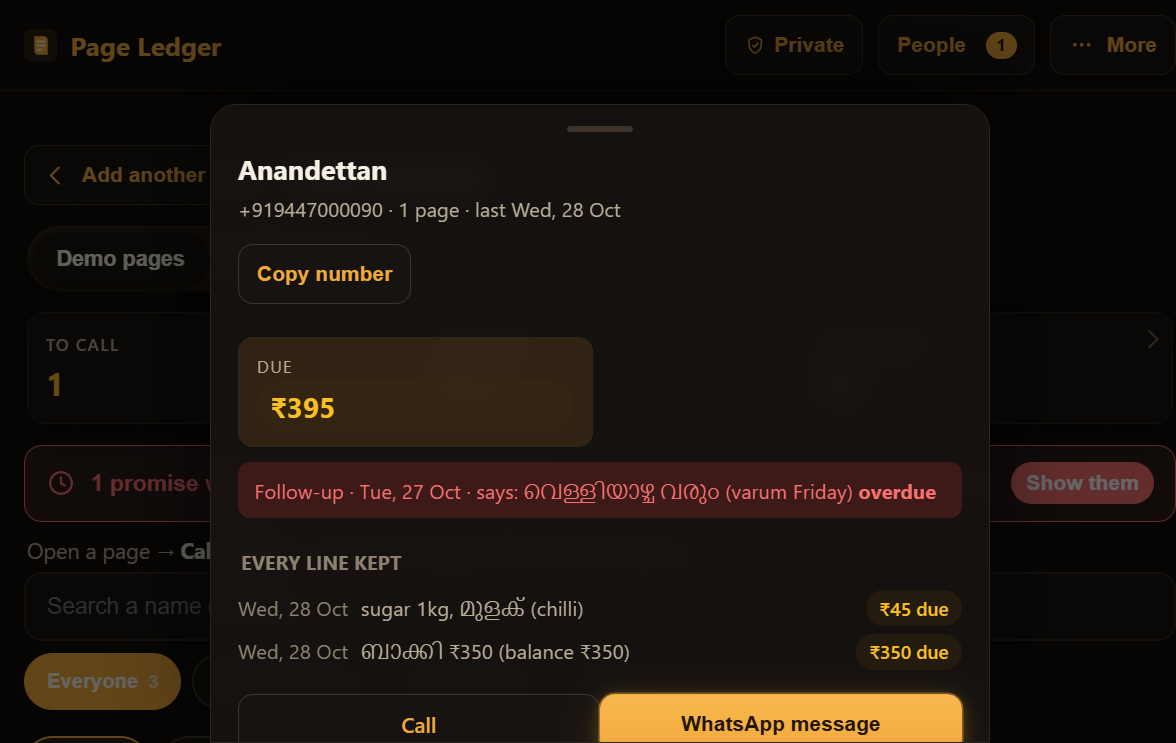
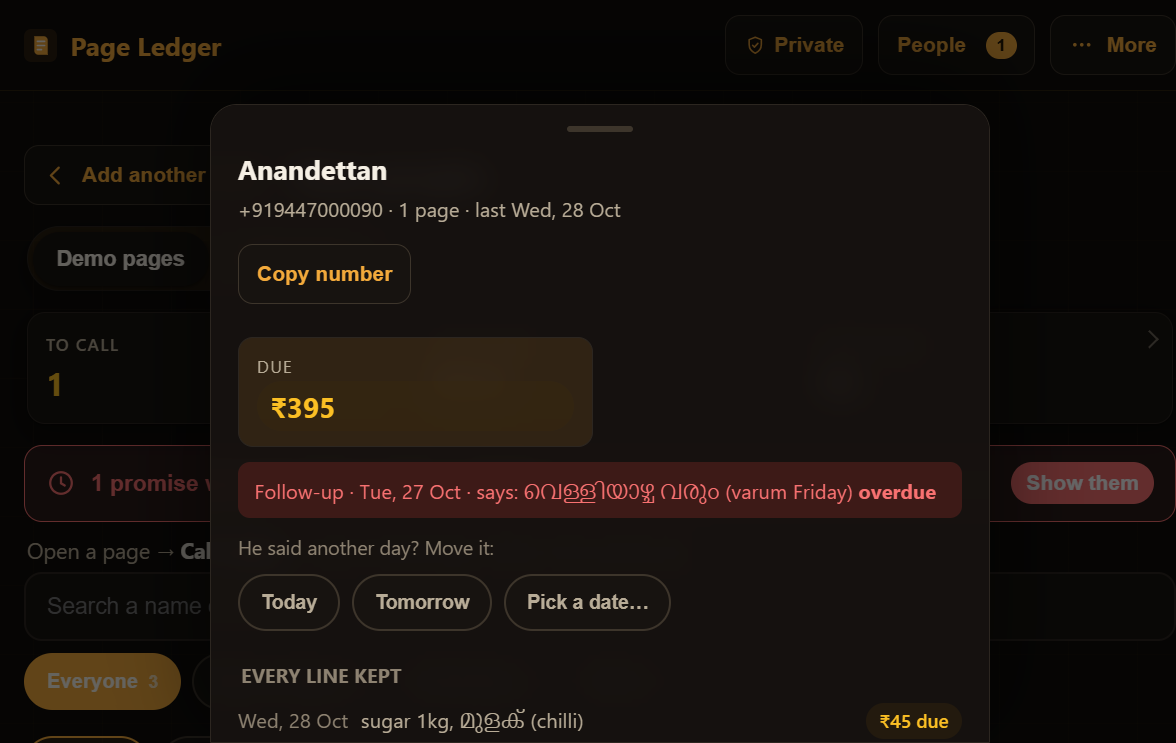
Follow-up move (Today/Tomorrow/pick a date) + craft polish: More menu data group, appbar scroll depth, dark scrollbars, empty-state glyph, card hover; demo script beats updated

diff --git a/js/app.js b/js/app.js
@@ -1576,6 +1576,22 @@ function openPersonSheet(key, triggerEl = null) {
     $("#person-follow").innerHTML = "";
   }
 
+  // the move row appears only for a real, row-backed follow-up
+  const moveRow = $("#person-move");
+  if (moveRow) {
+    if (f && f.rowId) {
+      moveRow.hidden = false;
+      moveRow.dataset.pageId = f.pageId;
+      moveRow.dataset.rowId = f.rowId;
+      const pickRow = moveRow.querySelector(".person-move__pickrow");
+      const pickBtn = moveRow.querySelector('[data-move="pick"]');
+      if (pickRow) pickRow.hidden = true;
+      if (pickBtn) pickBtn.setAttribute("aria-expanded", "false");
+    } else {
+      moveRow.hidden = true;
+    }
+  }
+
   const rows = (p.history ?? [])
     .map((h) => {
       const amt = h.paid
@@ -1631,6 +1647,37 @@ async function handleFollowDone(pageId, rowId) {
     // the button stays; nothing loses data
   }
   await loadPeople();
+}
+
+function localDatePlus(days) {
+  const d = new Date();
+  d.setDate(d.getDate() + days);
+  return `${d.getFullYear()}-${String(d.getMonth() + 1).padStart(2, "0")}-${String(d.getDate()).padStart(2, "0")}`;
+}
+
+// One honest write: the date changes, it counts as confirmed (the owner set
+// it by hand), the panel re-renders on fresh data, and the old date stays
+// one Undo tap away.
+async function moveFollowUpTo(f, newDate) {
+  const key = panelPerson?.key;
+  const oldDate = f.date;
+  try {
+    await auth().setFollowUpDate(f.pageId, f.rowId, newDate);
+  } catch {
+    window.alert("The follow-up could not be moved. Try again.");
+    return;
+  }
+  await loadPeople();
+  if (key && !$("#sheet-person").hidden) openPersonSheet(key, personReturnFocus);
+  showUndo(`Follow-up moved to ${niceDay(newDate)}`, async () => {
+    try {
+      await auth().setFollowUpDate(f.pageId, f.rowId, oldDate);
+      await loadPeople();
+      if (key && !$("#sheet-person").hidden && panelPerson?.key === key) {
+        openPersonSheet(key, personReturnFocus);
+      }
+    } catch {}
+  });
 }
 
 function onPeopleAction(e) {
@@ -2342,6 +2389,39 @@ function wire() {
       // clipboard blocked (older browser): the number sits right above, readable
     }
   };
+  // move a follow-up: the loop closes after the call ("he'll come Friday")
+  $("#person-move").addEventListener("click", async (e) => {
+    const row = $("#person-move");
+    const btn = e.target.closest(".person-move__btn");
+    if (btn && btn.dataset.move === "pick") {
+      const pickRow = row.querySelector(".person-move__pickrow");
+      pickRow.hidden = !pickRow.hidden;
+      btn.setAttribute("aria-expanded", String(!pickRow.hidden));
+      if (!pickRow.hidden) $("#person-move-date").focus({ preventScroll: true });
+      return;
+    }
+    if (btn && btn.dataset.move !== "pick" && btn.dataset.move !== "go") {
+      const f = panelPerson?.followUp;
+      if (!f?.rowId) return;
+      const newDate = btn.dataset.move === "today" ? ppl.localToday() : localDatePlus(1);
+      await moveFollowUpTo(f, newDate);
+      return;
+    }
+  });
+  $("#person-move .person-move__go").addEventListener("click", async () => {
+    const f = panelPerson?.followUp;
+    const v = $("#person-move-date").value;
+    if (!f?.rowId || !v) return;
+    await moveFollowUpTo(f, v);
+  });
+
+  // the appbar gains depth once content scrolls beneath it
+  const bar = document.querySelector(".appbar");
+  if (bar) {
+    const onScroll = () => bar.classList.toggle("appbar--scrolled", (window.scrollY || 0) > 6);
+    window.addEventListener("scroll", onScroll, { passive: true });
+    onScroll();
+  }
   // overdue banner: one tap switches to the Call today list
   $("#overdue-banner").onclick = () =>
     document.querySelector('.people-chip[data-chip="today"]')?.click();

diff --git a/index.html b/index.html
@@ -340,6 +340,9 @@
       </div>
 
       <div id="people-empty" class="card card--empty" hidden>
+        <div class="empty-ico" aria-hidden="true">
+          <svg viewBox="0 0 24 24" fill="none" stroke="currentColor" stroke-width="1.6" stroke-linecap="round" stroke-linejoin="round"><path d="M6 4h9a3 3 0 0 1 3 3v13H9a3 3 0 0 1-3-3V4z"/><path d="M6 4a2 2 0 0 0 0 4h2"/><path d="M10 9h5M10 13h5M10 17h3"/></svg>
+        </div>
         <h2 class="card__title">No one here yet</h2>
         <p class="card__body">Save a page and its people appear here with money in, money owed and who to call. Nothing is shared - this ledger is yours.</p>
       </div>
@@ -607,6 +610,7 @@
         <button id="btn-signout" class="btn btn--ghost btn--block" type="button">Sign out</button>
       </div>
       <button id="btn-more-privacy" class="btn btn--ghost btn--block" type="button">Where your pages live</button>
+      <p class="more-group">Your data</p>
       <button id="btn-more-csv" class="btn btn--ghost btn--block" type="button">Download all lines as CSV</button>
       <button id="btn-more-backup" class="btn btn--ghost btn--block" type="button" hidden>Download a backup</button>
       <button id="btn-more-restore" class="btn btn--ghost btn--block" type="button" hidden>Restore a backup&hellip;</button>
@@ -632,6 +636,18 @@
       <button id="btn-copy-phone" class="btn btn--ghost btn--small person-copy" type="button" hidden>Copy number</button>
       <div class="person-money" id="person-money"></div>
       <div id="person-follow"></div>
+      <div id="person-move" class="person-move" hidden>
+        <span class="person-move__label">He said another day? Move it:</span>
+        <span class="person-move__row">
+          <button class="pill person-move__btn" data-move="today" type="button">Today</button>
+          <button class="pill person-move__btn" data-move="tomorrow" type="button">Tomorrow</button>
+          <button class="pill person-move__btn" data-move="pick" type="button" aria-expanded="false">Pick a date&hellip;</button>
+        </span>
+        <span class="person-move__pickrow" hidden>
+          <input type="date" id="person-move-date" class="person-move__date" aria-label="New follow-up date" />
+          <button class="btn btn--ghost btn--small person-move__go" type="button">Move</button>
+        </span>
+      </div>
       <div id="person-history" class="person-history"></div>
       <div class="pcard__actions person-actions">
         <a id="person-call" class="btn btn--ghost btn--small call-btn" href="#" hidden>Call</a>

diff --git a/css/styles.css b/css/styles.css
@@ -2852,3 +2852,65 @@ body.story-open .coach__tip { display: none; }
 
 /* copy-number: a quiet helper under the person's phone line */
 .person-copy { margin: 2px 0 10px; }
+
+/* move a follow-up: one tap, the loop closes after the call */
+.person-move {
+  margin: 10px 0 2px;
+  display: grid;
+  gap: 8px;
+}
+.person-move__label { color: var(--ink-faint); font-size: 13px; }
+.person-move__row { display: flex; flex-wrap: wrap; gap: 8px; }
+.person-move__btn { font-size: 13px; }
+.person-move__pickrow { display: flex; gap: 8px; align-items: center; }
+.person-move__date {
+  background: var(--surface);
+  border: 1px solid var(--line-strong);
+  border-radius: var(--radius-sm);
+  color: var(--ink);
+  font: inherit;
+  font-size: 14px;
+  padding: 8px 10px;
+  color-scheme: dark;
+}
+
+/* the More menu gets honest section labels */
+.more-group {
+  color: var(--ink-faint);
+  font-size: 11.5px;
+  font-weight: 700;
+  text-transform: uppercase;
+  letter-spacing: 0.08em;
+  margin: 14px 0 2px;
+}
+
+/* empty state: a small notebook, drawn not typed */
+.empty-ico {
+  width: 46px;
+  height: 46px;
+  border-radius: 999px;
+  display: grid;
+  place-items: center;
+  color: var(--accent);
+  background: var(--accent-soft);
+  border: 1px solid color-mix(in srgb, var(--amber) 35%, transparent);
+  margin: 0 auto 12px;
+}
+.empty-ico svg { width: 24px; height: 24px; }
+
+/* thin dark scrollbars (webkit) + Firefox equivalent */
+html { scrollbar-color: var(--line-strong) transparent; }
+::-webkit-scrollbar { width: 10px; height: 10px; }
+::-webkit-scrollbar-thumb { background: var(--line-strong); border-radius: 999px; border: 2px solid var(--paper); }
+::-webkit-scrollbar-track { background: transparent; }
+
+/* the appbar gains depth once content scrolls beneath it */
+.appbar--scrolled {
+  box-shadow: 0 6px 18px rgb(0 0 0 / 0.35), 0 1px 0 rgb(242 169 59 / 0.08);
+}
+
+/* people cards: a whisper of lift on hover (never on touch) */
+@media (hover: hover) {
+  .pcard { transition: border-color 0.15s ease, transform 0.12s ease; }
+  .pcard:hover { transform: translateY(-1px); }
+}

diff --git a/js/supabase.js b/js/supabase.js
@@ -232,6 +232,21 @@ export async function setFollowUpDone(rowId, done = true) {
   return { ok: true };
 }
 
+// Moves a follow-up to a new date. The owner set it by hand, so it arrives
+// confirmed - the same rule as ticking Confirm on the page.
+export async function setFollowUpDate(rowId, date) {
+  await withFreshToken();
+  if (!session?.access) throw new Error("Please sign in first.");
+  const { res } = await call(`/rest/v1/page_rows?id=eq.${encodeURIComponent(rowId)}`, {
+    method: "PATCH",
+    auth: true,
+    extraHeaders: { Prefer: "return=minimal" },
+    body: { follow_up_date: date, follow_up_confirmed: true },
+  });
+  if (!res.ok) throw new Error(`Could not update the follow-up (${res.status}). Try again.`);
+  return { ok: true };
+}
+
 // Removes one page and its lines. RLS scopes both tables to the signed-in
 // owner, so a crafted id can only ever delete the owner's own page.
 export async function deletePage(pageId) {

diff --git a/js/demo-store.js b/js/demo-store.js
@@ -222,6 +222,20 @@ export async function setFollowUpDone(pageId, rowId, done = true) {
   return { ok: true, persisted };
 }
 
+// Moves a follow-up to a new date - the loop closes after the call: "he'll
+// come Friday" becomes Friday. The owner set it by hand, so it counts as
+// confirmed (the same rule as ticking Confirm on the page).
+export async function setFollowUpDate(pageId, rowId, date) {
+  const store = read();
+  const page = store.pages.find((p) => p.id === pageId);
+  const row = page?.page_rows.find((r) => r.id === rowId);
+  if (!row) throw new Error("That follow-up could not be found.");
+  row.follow_up_date = date;
+  row.follow_up_confirmed = true;
+  const persisted = persist(store);
+  return { ok: true, persisted };
+}
+
 // Removes one saved page (and its lines) from this browser.
 export async function deletePage(pageId) {
   const store = read();

diff --git a/docs/DEMO-SCRIPT.md b/docs/DEMO-SCRIPT.md
@@ -69,13 +69,19 @@ without you."
 
 1. Three big numbers first: **To call / Total due / Collected**. Say:
 > "The CRM writes itself: who to call today, what is owed, what came in."
-2. The red **overdue strip**: "Promises nobody marked done don't get lost —
+2. Tap the **To call** card itself — the list filters to today's calls; tap
+   again and it releases. One line: "The stats ARE the filters."
+3. The red **overdue strip**: "Promises nobody marked done don't get lost —
    overdue sits on top, one tap."
-3. Tap a person → the **side panel**: their whole history, then **Call** and
+4. Tap a person → the **side panel**: their whole history, then **Call** and
    **WhatsApp**. Say:
 > "We never message anyone. The owner reviews the words in this sheet and
 > presses Send in WhatsApp themselves. Templates — not chatbots."
-4. Point at the **Demo pages / My pages** switch:
+5. Still in the panel, the follow-up: **"He said another day? Move it"** →
+   tap **Tomorrow** (or pick a date). Say:
+> "This is the part after the phone call — he says Friday, you tap Friday.
+> The app remembers, and Undo brings yesterday's date back."
+6. Point at the **Demo pages / My pages** switch:
 > "Sample pages and your own photographs stay clearly separated."
 
 ## 2:00 – 2:25 · Ask my ledger (grounded AI)
@@ -95,6 +101,11 @@ without you."
 Show (quick): README status lines, then `netlify/functions/_lib/ai.js` scroll
 for 3 seconds — the verified-facts header.
 
+Then, one breath, **More (⋯)**: "And the ledger belongs to the owner — one tap
+downloads every line as a spreadsheet, or a backup file that restores on any
+device. Nothing is uploaded anywhere." (CSV + Backup visible in the menu; no
+need to actually download on camera.)
+
 ## 2:40 – 3:00 · Close
 
 > "Small shops already run on paper. Page Ledger doesn't ask them to change —
@@ -111,9 +122,10 @@ End card: repo URL (https://github.com/Izaansherif/page-ledger) + live URL
 
 - [ ] Fresh demo state: **More (⋯) → Erase demo pages** → reload → the story
       plays → land on the new landing → save the sample ONCE so the CRM has
-      data before the recording continues.
-- [ ] The story is skipped automatically for returning visitors — if you
-      need it again mid-take, erase again or clear the site data.
+      data before the recording continues (tick **Confirm** on the follow-up
+      row — the CRM only counts follow-ups a human confirmed).
+- [ ] The story is skipped automatically for returning visitors — to show it
+      again mid-take use **More (⋯) → Replay the intro** (no erase needed).
 - [ ] Mic tested once before take (the browser will ask permission — allow and
       keep it allowed, so no dialog appears mid-take).
 - [ ] Do not show any real person's data: fixture/exported sample pages only.
